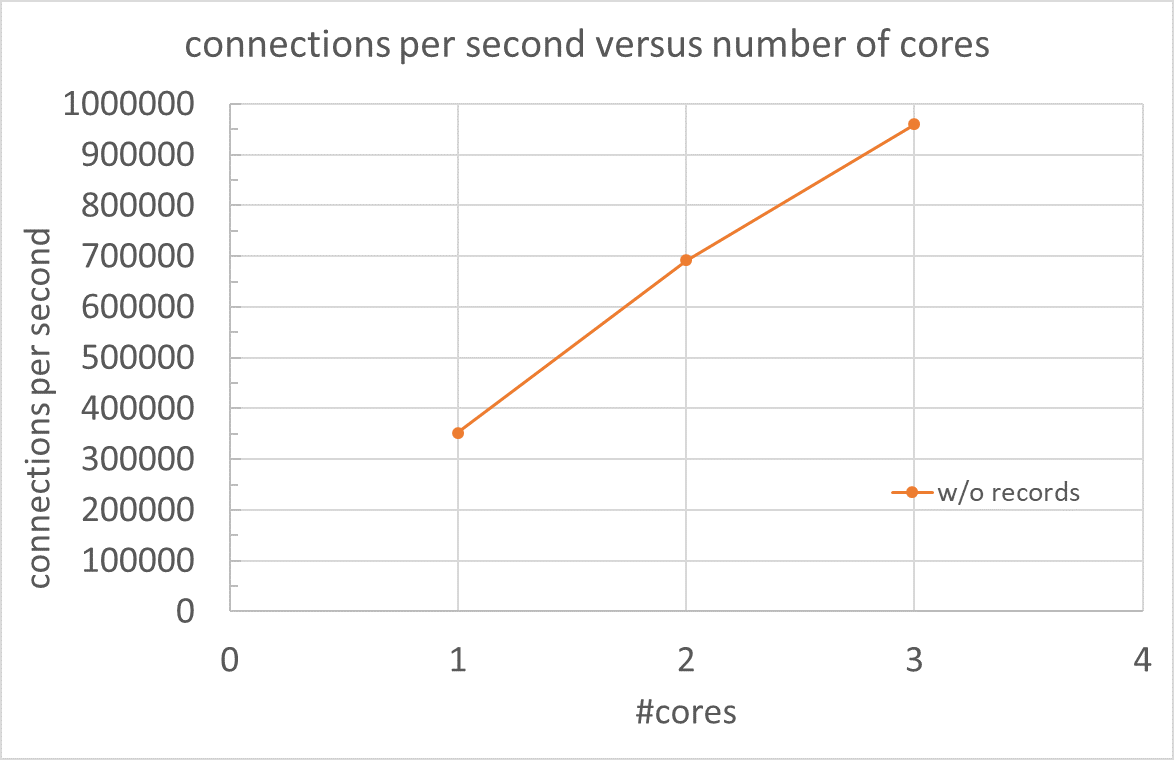
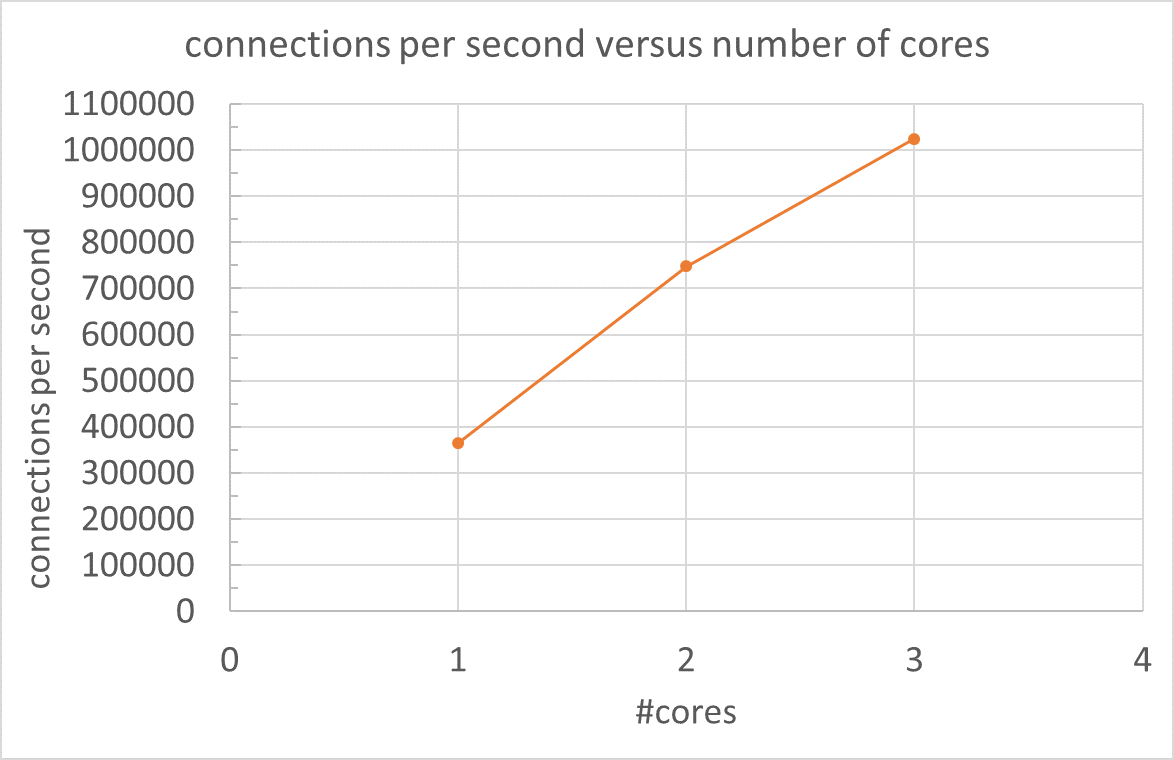
removed bug in tcp state machine when FIN contains payload, improved output of connection records, new performance diagram

Changed region(s): [[0.0613, 0.1513, 0.9813, 0.7566], [0.0613, 0.1211, 0.092, 0.1513]]

diff --git a/src/nftcp.rs b/src/nftcp.rs
@@ -345,6 +345,7 @@ pub fn setup_delayed_proxy<F1, F2>(
                 c: &mut ProxyConnection,
                 me: &Me,
             ) {
+                let newseqn;
                 {
                     // this is the s->c part of the stable two-way connection state
                     // translate packets and forward to client
@@ -360,7 +361,7 @@ pub fn setup_delayed_proxy<F1, F2>(
 
                     // adapt seqn and ackn from server packet
                     let oldseqn = tcp.seq_num();
-                    let newseqn = oldseqn.wrapping_add(c.c_seqn);
+                    newseqn = oldseqn.wrapping_add(c.c_seqn);
                     let oldackn = tcp.ack_num();
                     let newackn = if c.c2s_inserted_bytes >= 0 {
                         oldackn.wrapping_sub(c.c2s_inserted_bytes as u32)
@@ -371,9 +372,9 @@ pub fn setup_delayed_proxy<F1, F2>(
                         tcp.set_ack_num(newackn);
                     }
                     tcp.set_seq_num(newseqn);
-                    if tcp.fin_flag() { c.seqn.seqn_fin_p2c = newseqn; }
                     c.ackn_p2c = newackn;
                 }
+                if p.headers().tcp(2).fin_flag() { c.seqn.ack_for_fin_p2c = newseqn.wrapping_add(tcp_payload_size(p) as u32 +1 ); }
 
                 prepare_checksum_and_ttl(p);
             }
@@ -742,7 +743,7 @@ pub fn setup_delayed_proxy<F1, F2>(
                                     time_adders[4].add_diff(utils::rdtsc_unsafe() - timestamp_entry);
                             } else if tcp.fin_flag() {
                                 if old_s_state >= TcpState::FinWait1 { // server in active close, client in passive or also active close
-                                    if tcp.ack_flag() && tcp.ack_num() == unsafe { c.seqn.seqn_fin_p2c.wrapping_add(1) } {
+                                    if tcp.ack_flag() && tcp.ack_num() == unsafe { c.seqn.ack_for_fin_p2c } {
                                         counter_c[TcpStatistics::RecvFinPssv] += 1;
                                         counter_s[TcpStatistics::SentFinPssv] += 1;
                                         counter_c[TcpStatistics::RecvAck4Fin] += 1;
@@ -778,7 +779,7 @@ pub fn setup_delayed_proxy<F1, F2>(
                                         c.s_set_release_cause(ReleaseCause::PassiveClose);
                                         counter_c[TcpStatistics::SentFinPssv] += 1;
                                         counter_c[TcpStatistics::SentAck4Fin] += 1;
-                                        c.seqn.seqn_fin_p2c = tcp.seq_num();
+                                        c.seqn.ack_for_fin_p2c = tcp.seq_num().wrapping_add(1);
                                         //TODO send restart to server?
                                         trace!("FIN-ACK to client, L3: { }, L4: { }", pdu.headers().ip(1), tcp);
                                     } else {
@@ -792,7 +793,7 @@ pub fn setup_delayed_proxy<F1, F2>(
                                 c.c_push_state(TcpState::Closed);
                                 c.set_release_cause(ReleaseCause::ActiveRst);
                                 release_connection = Some(c.port());
-                            } else if tcp.ack_flag() && tcp.ack_num() == unsafe { c.seqn.seqn_fin_p2c.wrapping_add(1) } && old_s_state >= TcpState::FinWait1 {
+                            } else if tcp.ack_flag() && tcp.ack_num() == unsafe { c.seqn.ack_for_fin_p2c } && old_s_state >= TcpState::FinWait1 {
                                 // ACK from client for FIN of Server
                                 match old_s_state {
                                     TcpState::FinWait1 => { c.s_push_state(TcpState::FinWait2); }
@@ -807,7 +808,7 @@ pub fn setup_delayed_proxy<F1, F2>(
                                 }
                                 counter_c[TcpStatistics::RecvAck4Fin] += 1;
                                 counter_s[TcpStatistics::SentAck4Fin] += 1;
-                            } else if old_s_state == TcpState::LastAck && tcp.ack_flag() && tcp.ack_num() == unsafe { c.seqn.seqn_fin_p2c.wrapping_add(1) } {
+                            } else if old_s_state == TcpState::LastAck && tcp.ack_flag() && tcp.ack_num() == unsafe { c.seqn.ack_for_fin_p2c } {
                                 // received final ack from client for client initiated close
                                 trace!(
                                     "{} received final ACK for client initiated close on port {}/{}",

diff --git a/src/bin.rs b/src/bin.rs
@@ -141,7 +141,7 @@ pub fn main() {
         //no_calls +=1;
         let cdata: CData = bincode::deserialize::<CData>(c.payload_packet.as_ref().unwrap().get_payload(2))
             .expect("cannot deserialize CData");
-
+        //info!("cdata = {:?}", cdata);
         for (i, l234) in l234data_clone.iter().enumerate() {
             if l234.port == cdata.reply_socket.port() && l234.ip == u32::from(*cdata.reply_socket.ip()) {
                 c.set_server_index(i as u8);
@@ -333,10 +333,11 @@ pub fn main() {
                         let mut min = c_records.iter_0().last().unwrap().clone();
                         let mut max = min.clone();
                         c_records.sort_0_by(|a, b| a.sock().1.cmp(&b.sock().1));
-
-                        c_records.iter_0().enumerate().for_each(|(i, c)| {
-                            let line = format!("{:6}: {}\n", i, c);
-                            f.write_all(line.as_bytes()).expect("cannot write c_records");
+                        c_records.iter().enumerate().for_each(|(i, (c, s))| {
+                            let line_c = format!("{:6}: {}\n", i, c);
+                            f.write_all(line_c.as_bytes()).expect("cannot write c_records for client");
+                            let line_s = format!("        {}\n", s);
+                            f.write_all(line_s.as_bytes()).expect("cannot write c_records for server");
 
                             if (c.release_cause() == ReleaseCause::PassiveClose
                                 || c.release_cause() == ReleaseCause::ActiveClose)
@@ -376,7 +377,6 @@ pub fn main() {
         }
         Err(ref e) => {
             error!("Error: {}", e);
-
             std::process::exit(1);
         }
     }

diff --git a/src/cmanager.rs b/src/cmanager.rs
@@ -117,7 +117,7 @@ impl fmt::Display for Extension {
     fn fmt(&self, f: &mut fmt::Formatter) -> fmt::Result {
         write!(
             f,
-            "({:?}, {:?}, {:?})",
+            "(Server, {:?}, {:?}, {:?})",
             self.states(),
             self.release_cause(),
             self.deltas_to_base_stamp()
@@ -132,7 +132,7 @@ pub union Seqn {
     /// seqn_nxt for connection from client to server, only used during connection setup
     pub f_seqn: u32,
     /// latest seqn of FIN seen for proxy to client, only used during connection release
-    pub seqn_fin_p2c: u32,
+    pub ack_for_fin_p2c: u32,
 }
 
 pub struct ProxyConnection<'a> {
@@ -332,9 +332,6 @@ impl<'a> ProxyConnection<'a> {
 }
 
 pub struct DetailedConnection {
-    //Box makes the trait object sizeable
-    //can be used by applications to store application specific connection state
-    //pub userdata: Option<Box<UserData>>,
     con_rec: Option<usize>,
     store: Option<Rc<RefCell<ProxyRecStore>>>,
 }

diff --git a/README.md b/README.md
@@ -3,14 +3,14 @@
 ProxyEngine is a user-space TCP-proxy written in Rust with following properties
 * TCP pass-through
 * customizable delayed binding
-* high performance: almost **1 million TCP connections opened and closed per second using 3 cores**
+* high performance: more than **1 million TCP connections opened and closed per second using 3 cores**
 * multi-core, shared nothing, locking-free architecture
 * client side receive side scaling (RSS), server side receive flow steering (RFS) by NIC
 * customizable payload inspection and manipulation
 
 It may be used for intelligent load-balancing and fire-walling of TCP based protocols, e.g. LDAP. Late binding allows to select the target server not till the first payload packet after the initial three-way hand-shake is received. In addition callbacks can be defined by which the proxy can modify the payload of the TCP based protocol. For this purpose additional connection state is maintained by the ProxyEngine.
 
-First benchmarking shows that ProxyEngine can handle more than 300,000 connections per second (cps) per core. Each connection exchanges seven packets between client and server.
+
 
 Scaling happens by distributing incoming client-side TCP connections using RSS over the cores and by steering the incoming server side TCP connections to the appropriate core. This receive flow steering can be either based on the port or on the IP address of the server side connection (selected by parameter _flow_steering_ in the toml configuration file). In the first case port resources of the proxy are assigned to cores (based on paramater _dst_port_mask_ in the configuration file). In the second case each core uses a unique IP address for the server side connections.     
 
@@ -26,7 +26,7 @@ This is in obvious contrast to classical network function virtualization (NFV) c
 A very similar zero copy approach is currently followed by the Intel [NFF-Go](https://github.com/intel-go/nff-go) project.
 
 We are using the above concept of NetBricks to implement a rather complex network function, namely a pass-through TCP proxy with delayed binding. 
-The network function itself (nftcp.rs) encompasses only ~700 LOC.
+Due to the high abstraction level the network function itself (nftcp.rs) encompasses only ~700 LOC.
 This number includes already a significant amount of code for profiling, recording of TCP sessions, debugging and tracing.
 
 Some specific features of ProxyEngine are:
@@ -66,16 +66,16 @@ Latest code of ProxyEngine was tested on two different 2-socket NUMA servers, ea
 
 #### CPS Performance Test
 
-A recent performance test using [TrafficEngine](https://github.com/rstade/TrafficEngine) as traffic generator on a second server gives the result shown in the following figure.
+A recent performance test using [TrafficEngine](https://github.com/rstade/TrafficEngine) as traffic generator on a second server gives the result shown in the following figure. We used ProxyEngine v0.4.6 for this test.
 
 ![ProxyEngine performance](https://github.com/silverengine-de/proxyengine/blob/master/cps_vs_cores_proxy.png)
 
-For this test we run ProxyEngine on one to three cores of a six-core E5-2640 (32K/256K/15M L1/L2/L3 Cache) in socket 0 of a DL380p Gen8 server with 2.50 GHz and a Centos 7.5 real-time kernel. As NIC we used X710-DA2. Each connection comprises three packets each for opening and closing the connection and one short additional payload packet (seven packets in total).  We also performed the basic tuning steps to isolate the cores which are running our working threads.  The real-time kernel increases determinism significantly versus the usual Centos non-real-time kernel. For more information see [rt-tuning.md](https://github.com/rstade/TrafficEngine/blob/master/rt-tuning.md). The TCP traffic generator [TrafficEngine](https://github.com/rstade/TrafficEngine) was run on 5 cores of a DL160-Gen6 server interconnected via another 10G NIC (82599 based) to the server running ProxyEngine.
+For this test we run ProxyEngine on one to three cores of a six-core E5-2640 (32K/256K/15M L1/L2/L3 Cache) in socket 0 of a DL380p Gen8 server with 2.50 GHz and a Centos 7.5 real-time kernel. As NIC we used X710-DA2. Each connection comprises three packets each for opening and closing the connection and one short additional payload packet (seven packets in total).  We also performed the basic tuning steps to isolate the cores which are running our working threads.  The real-time kernel increases determinism significantly versus the usual Centos non-real-time kernel. For more information see [rt-tuning.md](https://github.com/rstade/TrafficEngine/blob/master/rt-tuning.md). The TCP traffic generator [TrafficEngine](https://github.com/rstade/TrafficEngine) was run on 6 cores of a DL160-Gen6 server interconnected via another 10G NIC (82599 based) to the server running ProxyEngine.
 
 More tests with larger payload per tcp connection are planned. 
 
 
-* Note 1: The tests were run with network configuration created by prepNet.uio.sh. The vfio-pci driver (prepNet.2.sh) failed when the X710-DA2 NIC was placed in a x8 PCI-slot of DL380, even after applying the [HP RMRR patch](https://support.hpe.com/hpsc/doc/public/display?docId=emr_na-c04781229&sp4ts.oid=5249566). Without patch it failed with dmesg error "Device is ineligible for IOMMU domain attach due to platform RMRR requirement", with patch it failed even worse with a hard PCI bus error.
+* Note 1: The tests were run with network configuration created by prepNet.uio.sh. The vfio-pci driver (prepNet.2.sh) failed when the X710-DA2 NIC was placed in a x8 PCI-slot of DL380, even after applying the [HP RMRR patch](https://support.hpe.com/hpsc/doc/public/display?docId=emr_na-c04781229&sp4ts.oid=5249566). Without patch it failed with dmesg error "Device is ineligible for IOMMU domain attach due to platform RMRR requirement". With patch it failed even worse with a hard PCI bus error.
 
 * Note 2: When the NIC is placed in the x4 PCI slot (slot 3) of DL380p Gen8 on first signs it appears to work, however obviously only one TX queue is active: the performance does not increase significantyl when more than one core is used as the tx-queues start to overflow, while rx queues are empty.
 
